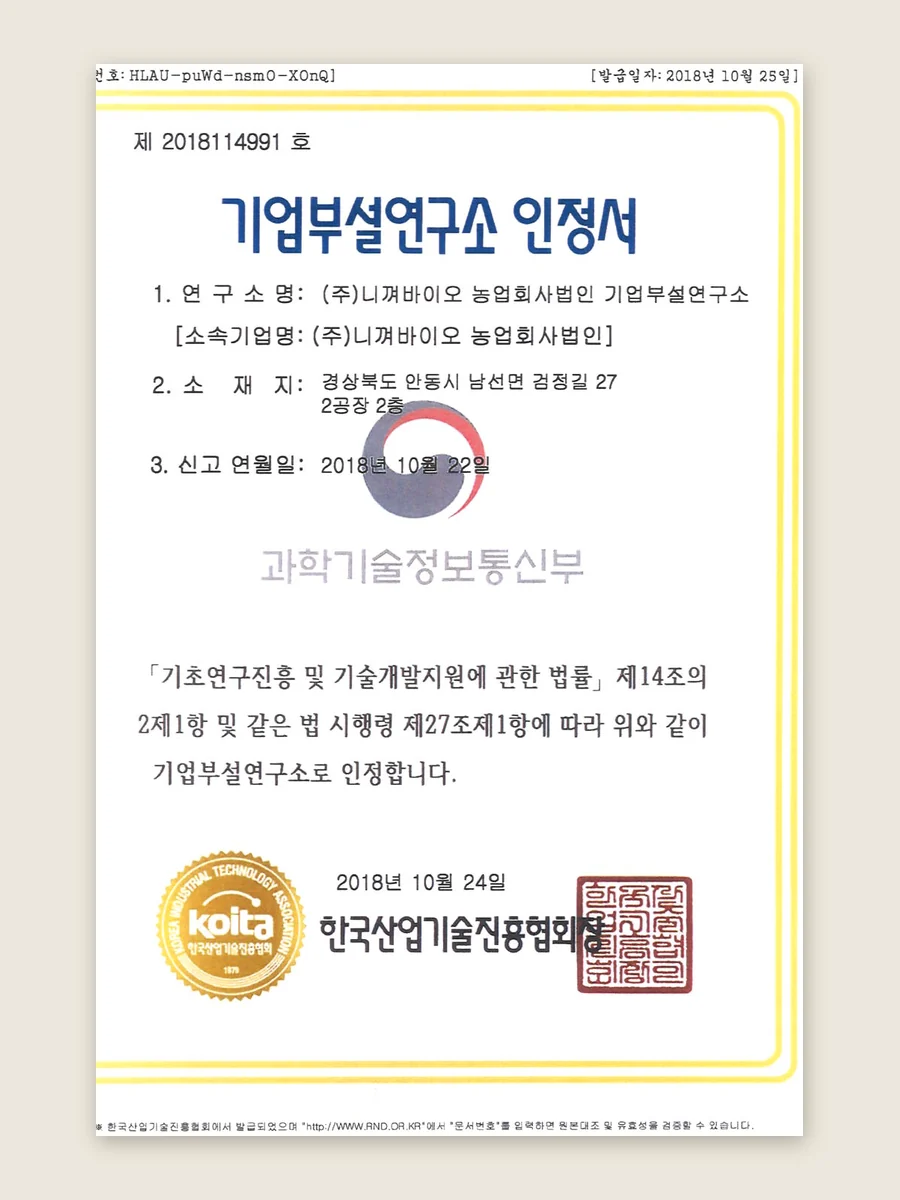
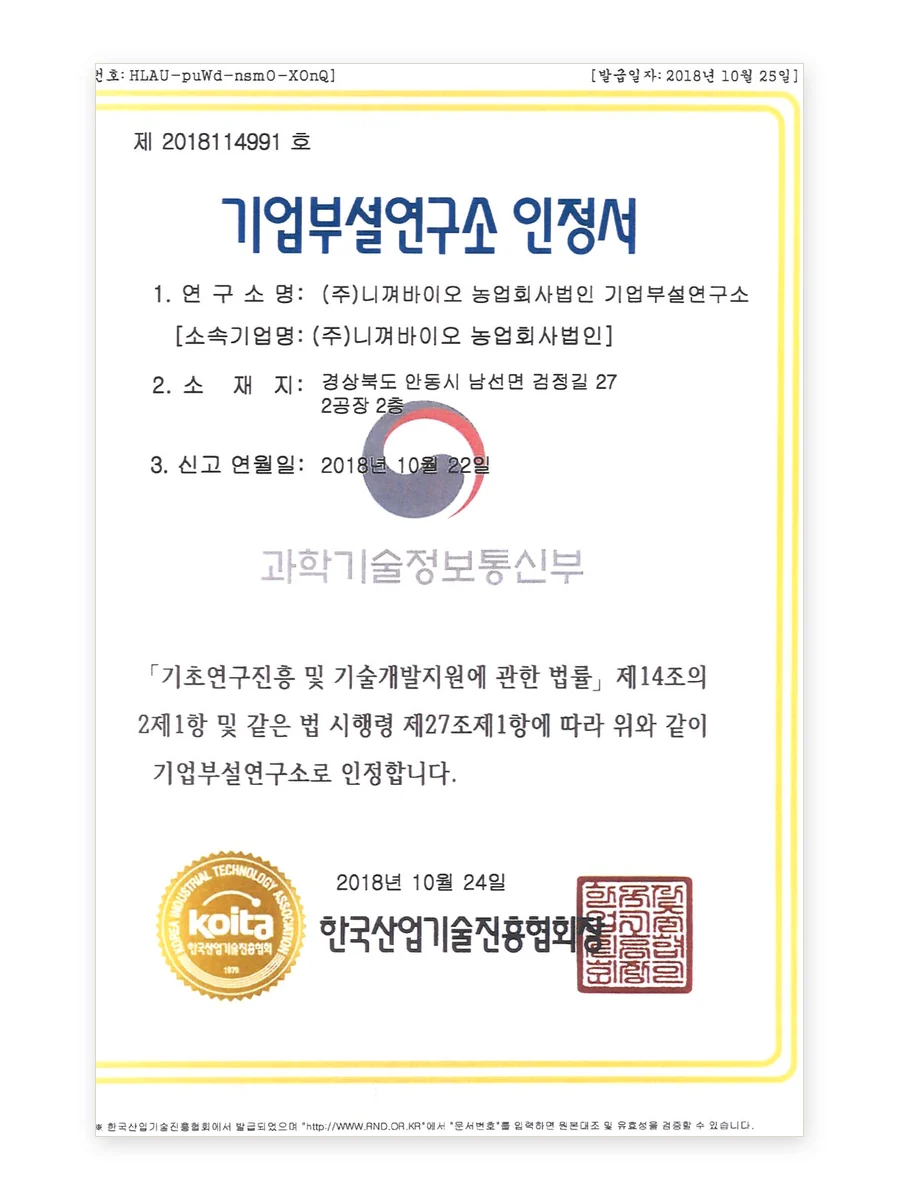
인증서 카드 배경을 흰색으로 변경
- img/cert/*.webp 캔버스를 흰색으로 재생성 (얇은 테두리 + 옅은 그림자)
- .cert .ccard .im 배경 parchment-2 → paper

Changed region(s): [[0.0, 0.0, 1.0, 1.0]]

diff --git a/index.html b/index.html
@@ -466,7 +466,7 @@
   /* 인증서 카드 줄 */
   .cert .certcards{display:grid;grid-template-columns:repeat(4,1fr);gap:18px;margin-top:56px}
   .cert .ccard{border:1px solid var(--line);border-radius:8px;overflow:hidden;background:var(--paper)}
-  .cert .ccard .im{aspect-ratio:3/4;background:var(--parchment-2);overflow:hidden}
+  .cert .ccard .im{aspect-ratio:3/4;background:var(--paper);overflow:hidden}
   .cert .ccard .im img{width:100%;height:100%;object-fit:cover;object-position:top}
   .cert .ccard .cap{padding:18px 20px}
   .cert .ccard .cap b{display:block;font-size:15px;font-weight:700;letter-spacing:-.02em;color:var(--ink)}
